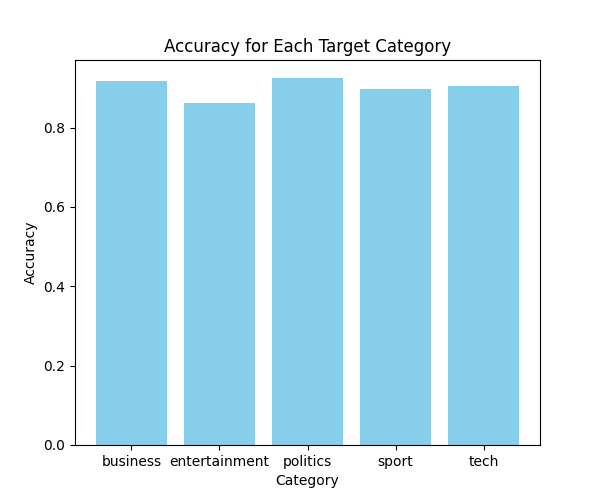
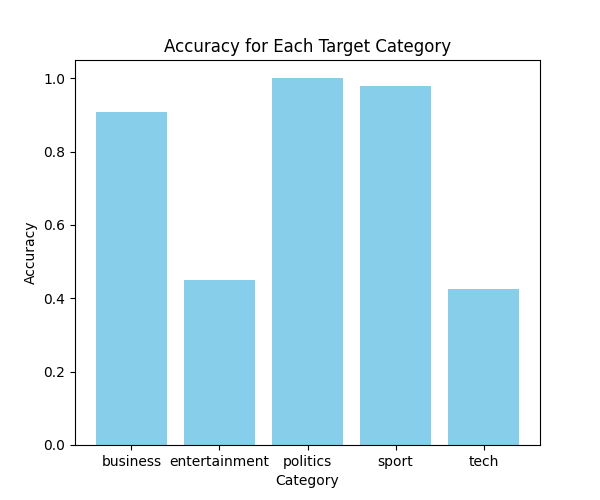
logging and exception module added

diff --git a/news_project/constants/__init__.py b/news_project/constants/__init__.py
@@ -1,0 +1,77 @@
+import os
+from datetime import date
+
+
+# Database Constants
+DATABASE_NAME = "News_Articles"
+COLLECTION_NAME = "news_data"
+MONGODB_URI = "MONGODB_URI"
+
+PIPELINE_NAME: str = "news"
+ARTIFACT_DIR: str = "artifact"
+
+TRAIN_FILE_NAME: str = "train.csv"
+TEST_FILE_NAME: str = "test.csv"
+
+FILE_NAME: str = "articles.csv"
+MODEL_FILE_NAME = "model.pkl"
+
+
+TARGET_COLUMN = "labels"
+CURRENT_YEAR = date.today().year
+PREPROCSSING_OBJECT_FILE_NAME = "preprocessing.pkl"
+SCHEMA_FILE_PATH = os.path.join("config", "schema.yaml")
+PARAMS_FILE_PATH = os.path.join("params.yaml")
+
+
+AWS_ACCESS_KEY_ID_ENV_KEY = "AWS_ACCESS_KEY_ID"
+AWS_SECRET_ACCESS_KEY_ENV_KEY = "AWS_SECRET_ACCESS_KEY"
+REGION_NAME = "eu-north-1"
+
+
+"""
+Data Ingestion Constants
+"""
+DATA_INGESTION_COLLECTION_NAME:str = "news_data"
+DATA_INGESTION_DIR_NAME:str = "data_ingestion"
+DATA_INGESTION_FEATURE_STORE_DIR:str = "feature_store"
+DATA_INGESTION_INGESTED_DIR:str = "ingested"
+DATA_INGESTION_TRAIN_TEST_SPLIT_RATIO:float = 0.2
+
+
+"""
+Data Validation Constants
+"""
+DATA_VALIDATION_DIR_NAME: str = "data_validation"
+DATA_VALIDATION_DRIFT_REPORT_DIR: str = "drift_report"
+DATA_VALIDATION_DRIFT_REPORT_FILE_NAME_YAML: str = "report.yaml"
+DATA_VALIDATION_DRIFT_REPORT_FILE_NAME_HTML: str = "html_report.html"
+
+
+"""
+Data Transformation Constants
+"""
+DATA_TRANSFORMATION_DIR_NAME: str = "data_transformation"
+DATA_TRANSFORMATION_TRANSFORMED_DATA_DIR: str = "transformed"
+DATA_TRANSFORMATION_TRANSFORMED_OBJECT_DIR: str = "transformed_object"
+
+
+"""
+Model Trainer Constants
+"""
+MODEL_TRAINER_DIR_NAME: str = "model_trainer"
+MODEL_TRAINER_TRAINED_MODEL_DIR: str = "trained_model"
+MODEL_TRAINER_TRAINED_MODEL_NAME: str = "model.pkl"
+# MODEL_TRAINER_EXPECTED_SCORE: float = 0.6
+# MODEL_TRAINER_MODEL_CONFIG_FILE_PATH: str = os.path.join("config", "model.yaml")
+
+
+"""
+Model Pusher constants 
+"""
+# MODEL_EVALUATION_CHANGED_THRESHOLD_SCORE: float = 0.02
+MODEL_BUCKET_NAME = "laptop-model2024"
+MODEL_PUSHER_S3_KEY = "model-registry"
+
+APP_HOST = "0.0.0.0"
+APP_PORT = 8080

diff --git a/news_project/exception/__init__.py b/news_project/exception/__init__.py
@@ -1,0 +1,24 @@
+import os
+import sys
+
+def error_message_detail(error, error_detail:sys):
+    _, _, exc_tb = error_detail.exc_info()
+    file_name = exc_tb.tb_frame.f_code.co_filename
+    error_message = "Error occurred python script name [{0}] line number [{1}] error message [{2}]".format(
+        file_name, exc_tb.tb_lineno, str(error)
+    )
+
+    return error_message
+
+class LaptopException(Exception):
+    def __init__(self, error_message, error_detail):
+        """
+        :param error_message: error message in string format
+        """
+        super().__init__(error_message)
+        self.error_message = error_message_detail(
+            error_message, error_detail=error_detail
+        )
+
+    def __str__(self):
+        return self.error_message

diff --git a/news_project/logger/__init__.py b/news_project/logger/__init__.py
@@ -1,0 +1,20 @@
+import logging
+import os
+
+from datetime import datetime
+
+LOG_FILE = f"{datetime.now().strftime('%m_%d_%Y_%H_%M_%S')}.log"
+
+log_dir = 'logs'
+
+# logs_path = os.path.join(from_root(), log_dir, LOG_FILE)
+logs_path = os.path.join(log_dir, LOG_FILE)
+
+os.makedirs(log_dir, exist_ok=True)
+
+
+logging.basicConfig(
+    filename=logs_path,
+    format="[ %(asctime)s ] %(name)s - %(levelname)s - %(message)s",
+    level=logging.INFO,
+)

diff --git a/demo.py b/demo.py
@@ -1,0 +1,3 @@
+from news_project.logger import logging
+
+logging.info("logging is working")

diff --git a/README.md b/README.md
@@ -27,11 +27,11 @@ conda activate <environament_name>
 conda deactivate
 ```
 ## Evaluation
-These bars represent the proportion of correctly classified instances for each target category.
+These bars represent the proportion of correctly classified instances for each target category from testing data.
 
 ![Image](https://github.com/nikhil-xyz/News-Articles-Sorting/blob/main/flowcharts/accuracy_bar_plot.png)
 
-**Confusion Matrix :** A confusion matrix is a table that is often used to describe the performance of a classification model (or "classifier") on a set of test data for which the true values are known. It visualizes the performance of a classification model by showing the counts of True Positives, True Negatives, False Positives, and False Negatives.
+**Confusion Matrix :** A confusion matrix is a table that is often used to describe the performance of a classification model (or "classifier") on a set of test data for which the true values are known. It visualizes the performance of a classification model by showing the counts of True Positives, True Negatives, False Positives, and False Negatives. Following confusion matrix contains predictions from the testing data.
 
 ![Image](https://github.com/nikhil-xyz/News-Articles-Sorting/blob/main/flowcharts/confusion_matrix.png)
 
@@ -40,5 +40,6 @@ These bars represent the proportion of correctly classified instances for each t
 - **Precision:** Out of the positive predictions, how many were actually positive (true positives / (true positives + false positives)). Focuses on minimizing false positives.
 - **Recall:** Out of the actual positives, how many were correctly predicted (true positives / (true positives + false negatives)). Focuses on minimizing false negatives.
 - **F1-score:** Harmonic mean of precision and recall. Provides a balance between the two metrics.
+Following bar chart shows the evaluation of testing data on different matrices. 
 
 ![Image](https://github.com/nikhil-xyz/News-Articles-Sorting/blob/main/flowcharts/model_performance_bar_plot.png)
